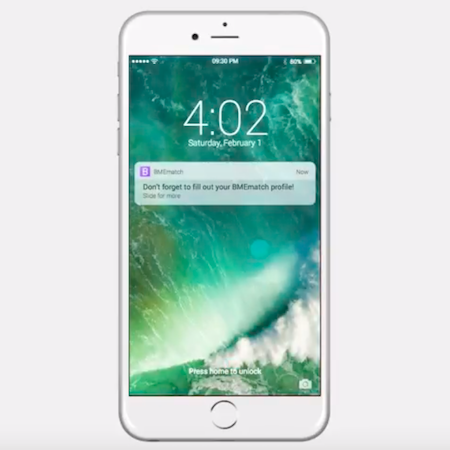
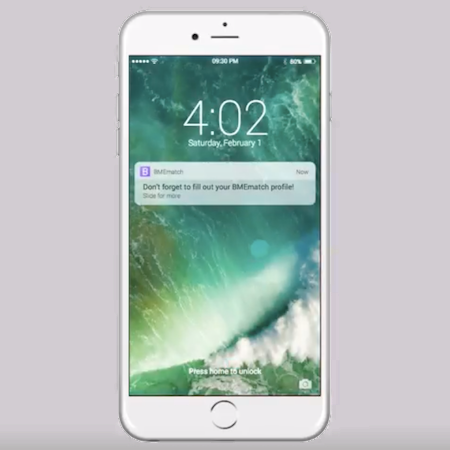
Add twitter bot project

diff --git a/index.html b/index.html
@@ -325,8 +325,28 @@
                             Created for Professor Uri Wilensky, who
                             developed the NetLogo language.
                         </p>
-                        <a class="btn-rounded-theme-inverse" href="files/langmam.pdf" target="_blank" style="margin-right: 25px">full report</a>
-                        <a class="btn-rounded-theme-inverse" href="https://github.com/eslee7/lang-mam" target="_blank" >github</a>
+                        <a class="btn-rounded-theme-inverse" href="files/langmam.pdf" target="_blank" style="margin-right: 25px">full
+                            report</a>
+                        <a class="btn-rounded-theme-inverse" href="https://github.com/eslee7/lang-mam" target="_blank">github</a>
+                    </div>
+                    <!-- End .project-info -->
+                </div>
+                <!-- End .project -->
+
+                <!-- PROJECT SEVEN.FIVE - BOOK BOT -->
+                <div class="project">
+                    <div class="project-image">
+                        <img src="images/bookbot.png" />
+                    </div>
+                    <!-- End .project-image -->
+                    <div class="project-info">
+                        <h3>Book Bot</h3>
+                        <p>
+                            Currently working on creating a Twitter bot that
+                            tweets about the latest New York Times bestsellers.
+                        </p>
+                        <a class="btn-rounded-theme-inverse" href="https://twitter.com/BestsellersNYT" target="_blank">sneak
+                            peak</a>
                     </div>
                     <!-- End .project-info -->
                 </div>
@@ -362,7 +382,7 @@
                 <!-- PROJECT EIGHT - BMEmatch -->
                 <div class="project">
                     <div class="project-image" style="background-color:#e1dcfc">
-                        <img src="images/bmematch.png" style="filter: brightness(92%)" />
+                        <img src="images/bmematch.png" />
                     </div>
                     <!-- End .project-image -->
                     <div class="project-info">
@@ -376,7 +396,8 @@
                             From additional research, my team and I compilied an 110+ page report and proposed revamped
                             overall recruitment process changes to Director of Ph.D. Admissions.
                         </p>
-                        <a class="btn-rounded-theme-inverse" href="files/BME_report.pdf" target="_blank">see full report</a>
+                        <a class="btn-rounded-theme-inverse" href="files/BME_report.pdf" target="_blank">see full
+                            report</a>
                     </div>
                     <!-- End .project-info -->
                 </div>
@@ -402,11 +423,13 @@
                             before arriving at the final product, which
                             we presented to our client and users.
                         </p>
-                        <a class="btn-rounded-theme-inverse" href="files/shirleyryan.pdf" target="_blank">see full report</a>
+                        <a class="btn-rounded-theme-inverse" href="files/shirleyryan.pdf" target="_blank">see full
+                            report</a>
                     </div>
                     <!-- End .project-info -->
                 </div>
                 <!-- End .project -->
+
             </div>
             <!-- END SECTION THREE -->
 
